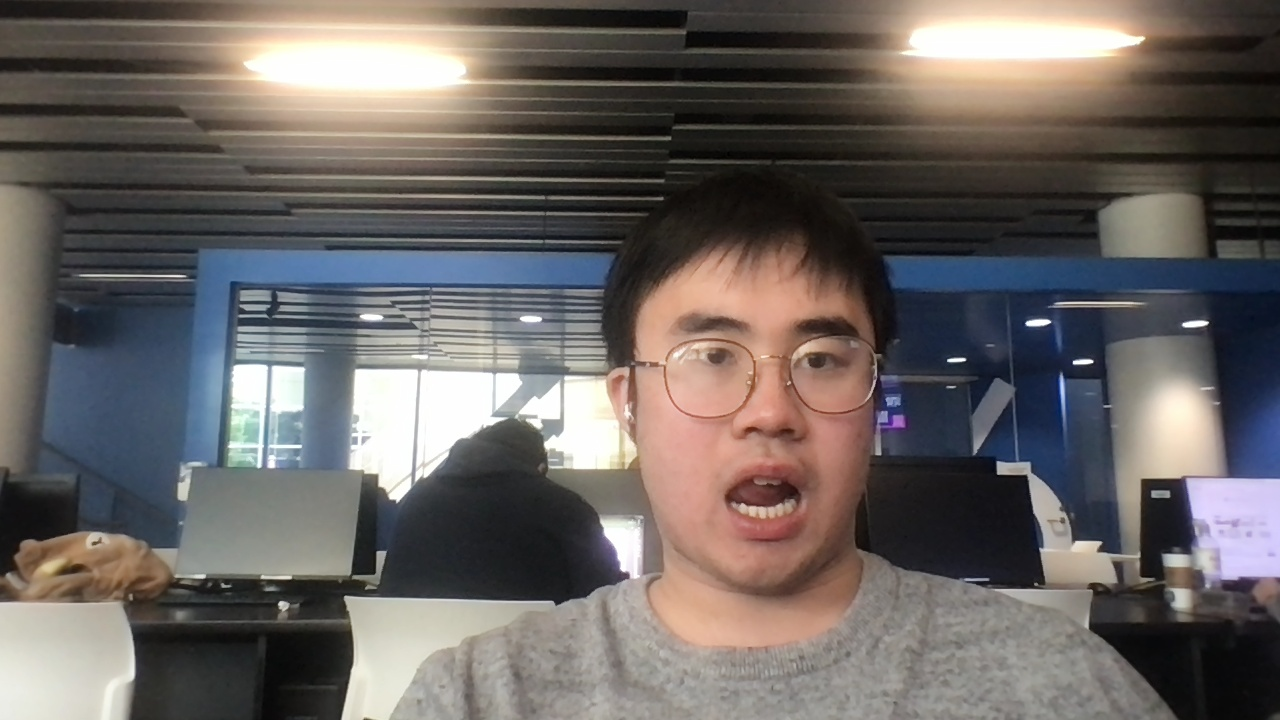
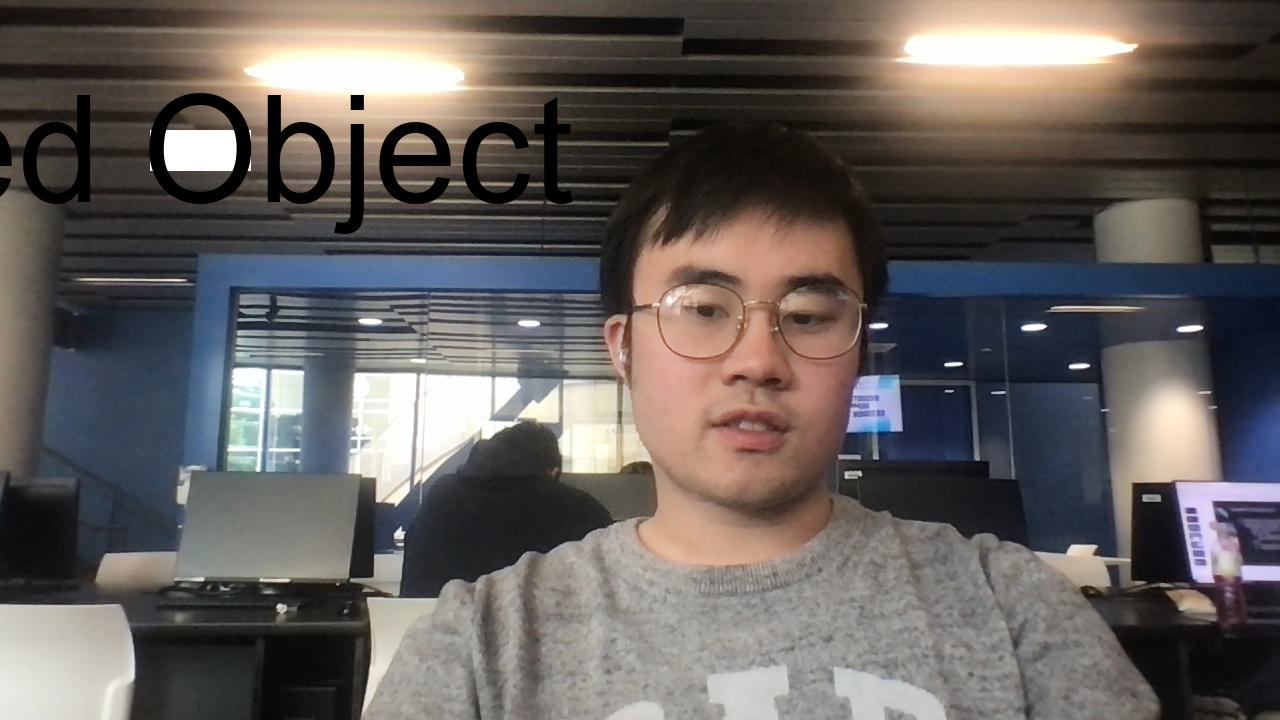
partial working

diff --git a/app.py b/app.py
@@ -103,10 +103,10 @@ def gen_frames():
             selected_size = 1
             for size in range(1, 150):
                 arial = ImageFont.FreeTypeFont('arial.ttf', size=size)
-                w, h = arial.getsize("Red Object")  # older versions
+            #     w, h = arial.getsize("Red Object")  # older versions
     
-            if w > 100 or h > 40:
-                break
+            # if w > 100 or h > 40:
+            #     break
         
             selected_size = size
     
@@ -121,6 +121,7 @@ def gen_frames():
 
 #_________________________________________________________________________
             #display image on the screen
+            cv2.imread('original.jpg')
             ret, buffer = cv2.imencode('.jpg', original)
             frame = buffer.tobytes()
             yield (b'--frame\r\n'
